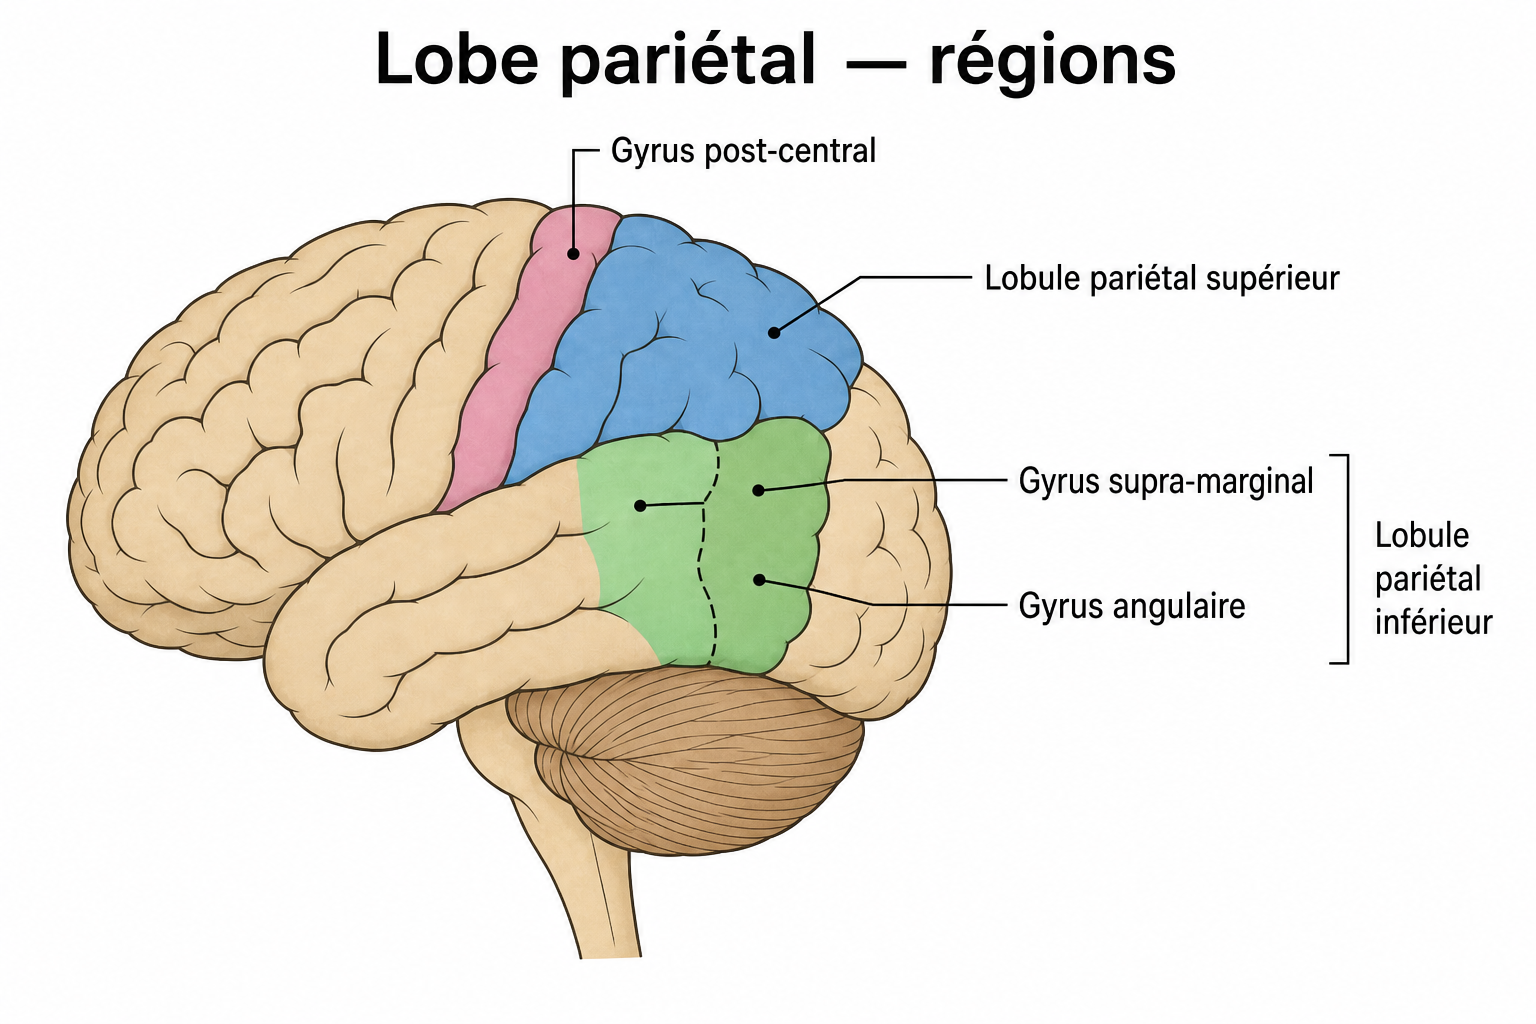
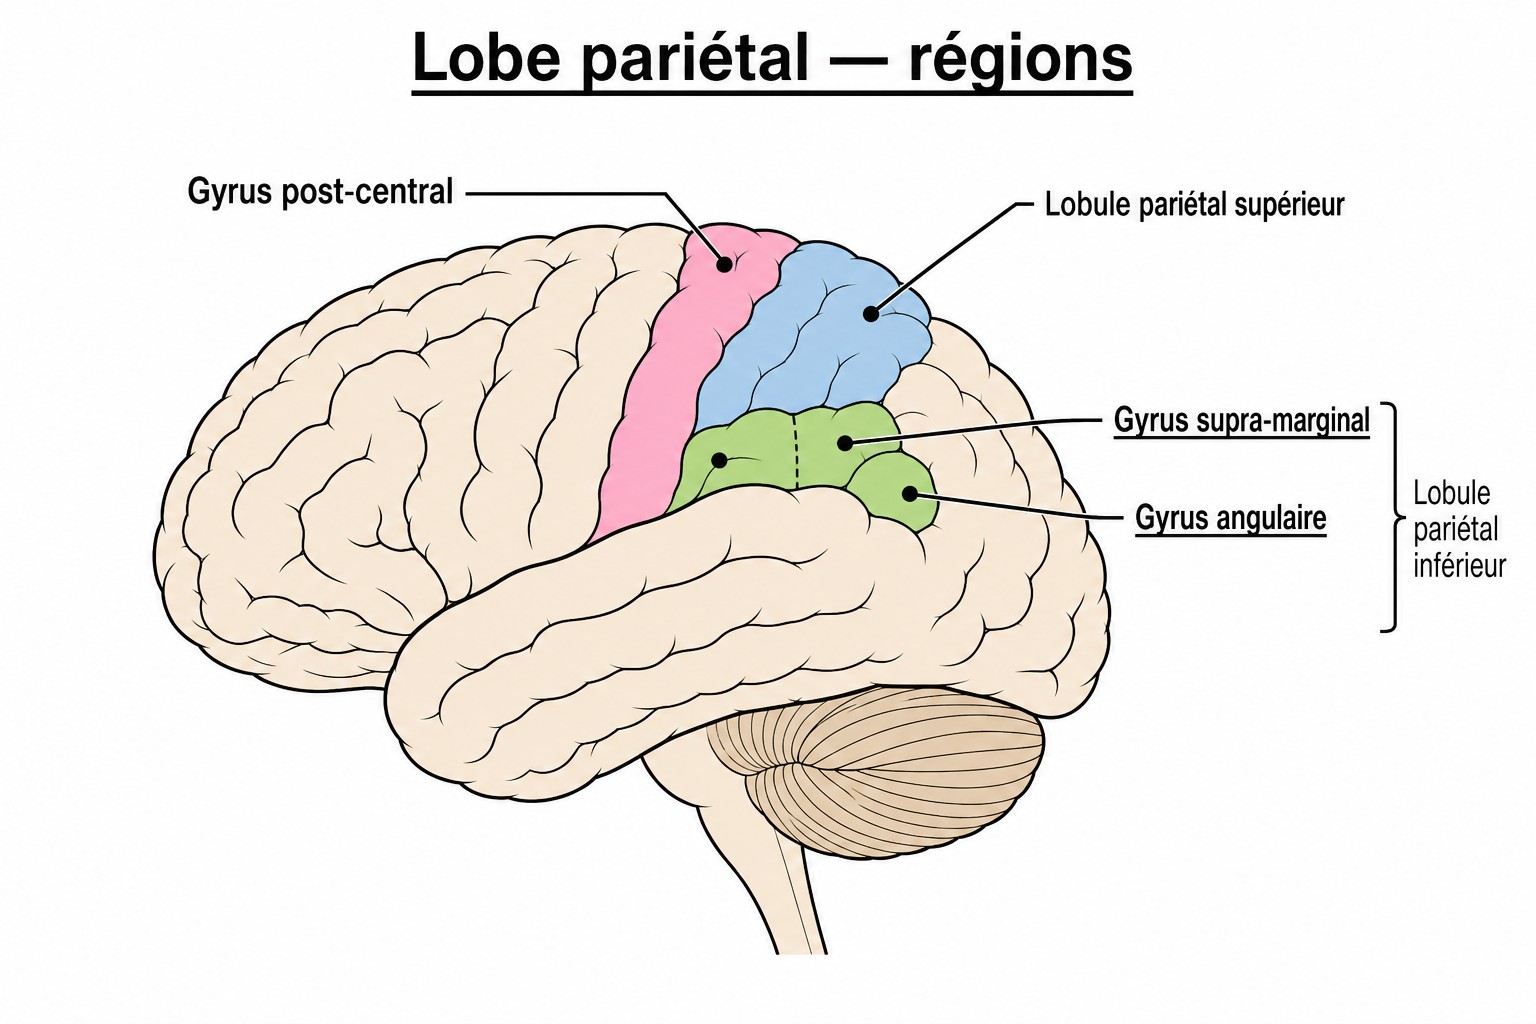
Fix ch02 parietal regions: inferior gyri stay in parietal lobe.

diff --git a/data/flash/ch02.js b/data/flash/ch02.js
@@ -98,7 +98,7 @@
     { id: "FC-ANAT-02-S17", chapter: "02", priority: "P1", kind: "schema", front: "Schéma — Face médiale", back: "Face médiale", frontImg: "matiere/anatomie/img/ch02/blank/22_face_mediale.png?v=fc2k", backImg: "matiere/anatomie/img/ch02/22_face_mediale.png?v=fc2k" },
     { id: "FC-ANAT-02-S18", chapter: "02", priority: "P1", kind: "schema", front: "Schéma — Face inférieure", back: "Face inférieure", frontImg: "matiere/anatomie/img/ch02/blank/23_face_inferieure.png?v=fc2l", backImg: "matiere/anatomie/img/ch02/23_face_inferieure.png?v=fc2l" },
     { id: "FC-ANAT-02-S19", chapter: "02", priority: "P1", kind: "schema", front: "Schéma — Gyrus frontaux", back: "Gyrus frontaux", frontImg: "matiere/anatomie/img/ch02/blank/26_frontal_gyrus.png", backImg: "matiere/anatomie/img/ch02/26_frontal_gyrus.png" },
-    { id: "FC-ANAT-02-S20", chapter: "02", priority: "P1", kind: "schema", front: "Schéma — Régions pariétales", back: "Régions pariétales", frontImg: "matiere/anatomie/img/ch02/blank/28_parietal_regions.png?v=fc2l", backImg: "matiere/anatomie/img/ch02/28_parietal_regions.png?v=fc2l" },
+    { id: "FC-ANAT-02-S20", chapter: "02", priority: "P1", kind: "schema", front: "Schéma — Régions pariétales", back: "Régions pariétales", frontImg: "matiere/anatomie/img/ch02/blank/28_parietal_regions.png?v=fc2m", backImg: "matiere/anatomie/img/ch02/28_parietal_regions.png?v=fc2m" },
     { id: "FC-ANAT-02-S21", chapter: "02", priority: "P1", kind: "schema", front: "Schéma — Heschl et Wernicke", back: "Heschl et Wernicke", frontImg: "matiere/anatomie/img/ch02/blank/30_heschl_wernicke.png?v=fc2", backImg: "matiere/anatomie/img/ch02/30_heschl_wernicke.png?v=fc2" },
     { id: "FC-ANAT-02-S22", chapter: "02", priority: "P1", kind: "schema", front: "Schéma — Lobe occipital", back: "Lobe occipital", frontImg: "matiere/anatomie/img/ch02/blank/31_occipital.png?v=fc2g", backImg: "matiere/anatomie/img/ch02/31_occipital.png?v=fc2g" },
     { id: "FC-ANAT-02-S23", chapter: "02", priority: "P1", kind: "schema", front: "Schéma — Système limbique", back: "Système limbique", frontImg: "matiere/anatomie/img/ch02/blank/32_limbique.png", backImg: "matiere/anatomie/img/ch02/32_limbique.png" },

diff --git a/matiere/anatomie/ch02.html b/matiere/anatomie/ch02.html
@@ -421,7 +421,7 @@
       </div>
 
       <figure class="schema">
-        <img src="./img/ch02/28_parietal_regions.png?v=fc2l" alt="Régions pariétales" />
+        <img src="./img/ch02/28_parietal_regions.png?v=fc2m" alt="Régions pariétales" />
       </figure>
       <div class="label-quiz" data-labels='[["supra marginal","supra-marginal"],["angulaire"],["sillon post-central","post-central","post central"],["sillon intra-parietal","intra-parietal","intra parietal"],["pre-cuneus","precuneus","pre cuneus"],["gyrus cingulaire anterieur","cingulaire anterieur"],["gyrus cingulaire posterieur","cingulaire posterieur"]]'>
         <div class="course-cloze">
